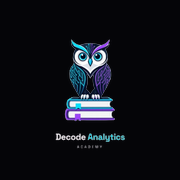
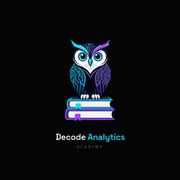
Changes

diff --git a/.lovable/plan.md b/.lovable/plan.md
@@ -1,49 +1,15 @@
-# Plano: Modo Claro legível + Pop-up de Anúncio funcionando
+## Plano
 
-## 1. Modo Claro (light mode) — revisão completa
+A coruja (`src/assets/owl-icon.png`) já está configurada como ícone de instalação do app. Apenas vou regenerar os arquivos para garantir nitidez e cache atualizado.
 
-Hoje os tokens light em `src/index.css` (`:root`) usam um fundo cinza-azulado (`220 14% 96%`) com primário ciano escuro (`188 92% 28%`) e bordas/muted muito próximos do fundo, gerando baixo contraste e "lavagem" geral. Resultado: texto e cards desaparecem.
+### Mudanças
+1. Regerar a partir de `src/assets/owl-icon.png` com fundo sólido `#050508` e padding seguro:
+   - `public/icon-192.png` (192×192)
+   - `public/icon-512.png` (512×512)
+   - `public/apple-touch-icon.png` (180×180)
+2. Bump de cache: `?v=5` em `index.html` e `public/manifest.json`.
+3. Manter o logo Decode no header do app (sem alterações em `AppHeader.tsx` nem `SplashScreen.tsx`).
 
-**Ações:**
-- Reescrever a paleta `:root` em `src/index.css` para um light mode "Apple-like" limpo:
-  - `--background`: branco puro (`0 0% 100%`)
-  - `--foreground`: quase preto (`222 47% 8%`) — contraste AAA
-  - `--card`: `0 0% 100%` com `--card-foreground` igual ao foreground
-  - `--muted`: `220 14% 96%` (suave) / `--muted-foreground`: `222 16% 28%` (legível)
-  - `--border`: `220 13% 88%` (visível mas sutil) / `--input`: igual
-  - `--primary`: ciano da marca, mas escurecido para contrastar com branco (`188 95% 32%`) com `--primary-foreground` branco
-  - `--accent`: roxo da marca em tom legível (`271 70% 50%`)
-  - `--secondary`: `220 14% 94%` com texto escuro
-  - `--destructive`, `--success`, `--warning`: tons saturados sobre branco com foreground branco
-  - `--ring`: usa primary
-- Adicionar sombras suaves específicas para light mode (token `--shadow-elegant` já existente, validar se funciona em ambos os temas; ajustar opacidade no light).
-- Verificar superfícies que usam `bg-background/80 backdrop-blur` (header, popovers): garantir que com fundo branco continuam legíveis (aumentar opacidade base se preciso).
-- Conferir gradientes hard-coded no Dashboard/Landing que assumem fundo escuro — se houver `from-black`, `to-black`, `text-white` fixos, substituir por tokens semânticos quando o usuário realmente quiser legibilidade no claro. (Escopo limitado: só o que estiver visivelmente quebrado.)
-
-## 2. Pop-up de Anúncio não aparece — correções
-
-Inspeção mostra:
-- 2 anúncios `popup` ativos no banco (target=all). Backend OK.
-- `<AdPopup trigger="onLoad" delay={2500} />` está montado em `App.tsx`. ✅
-- **Bugs no `src/components/AdPopup.tsx`:**
-  1. `sessionStorage.setItem('popup_ad_shown', 'true')` é gravado **antes** de o pop-up aparecer com sucesso. Se o usuário visitou o app uma vez na sessão (ou o timer disparou antes do anúncio carregar), o flag fica gravado e o pop-up nunca mais aparece naquela aba — mesmo após F5 dependendo do navegador.
-  2. O `useEffect` de trigger depende de `currentAd` e `hasShownThisSession`, mas só lê `sessionStorage` uma vez no mount; múltiplos re-renders podem agendar múltiplos `setTimeout`.
-  3. Não há log/erro visível quando RLS bloqueia `ad_views` insert.
-
-**Ações:**
-- Em `AdPopup.tsx`:
-  - Mover `sessionStorage.setItem('popup_ad_shown', ...)` para **dentro** de `showPopup`, depois de confirmar `currentAd` existe.
-  - Garantir `clearTimeout` no cleanup do `useEffect` (já existe, mas remover `currentAd` das dependências para não reagendar).
-  - Adicionar `console.debug('[AdPopup]', { adsCount, loading, hasShownThisSession })` para diagnosticar no preview.
-  - Adicionar fallback: se `sessionStorage` indisponível, ainda exibir.
-- Verificar RLS da tabela `ad_views` / `ad_clicks` — se `INSERT` exige usuário autenticado, anônimos quebram. Confirmar e ajustar policy se necessário (permitir insert anônimo apenas com `session_id` não nulo).
-
-## 3. Validação
-- Alternar tema no header e revisar visualmente Dashboard, Landing, Login, Apostila e Admin no modo claro.
-- Limpar `sessionStorage.popup_ad_shown` no console e recarregar para conferir o pop-up aparecer após 2,5s.
-- Verificar console por logs `[AdPopup]` e erros de RLS.
-
-## Arquivos afetados
-- `src/index.css` (tokens `:root`)
-- `src/components/AdPopup.tsx`
-- Possivelmente nova migração para policy `ad_views`/`ad_clicks` (somente se confirmado bloqueio)
+### Não muda
+- Favicon do navegador (continua o atual).
+- Logo dentro do app.
